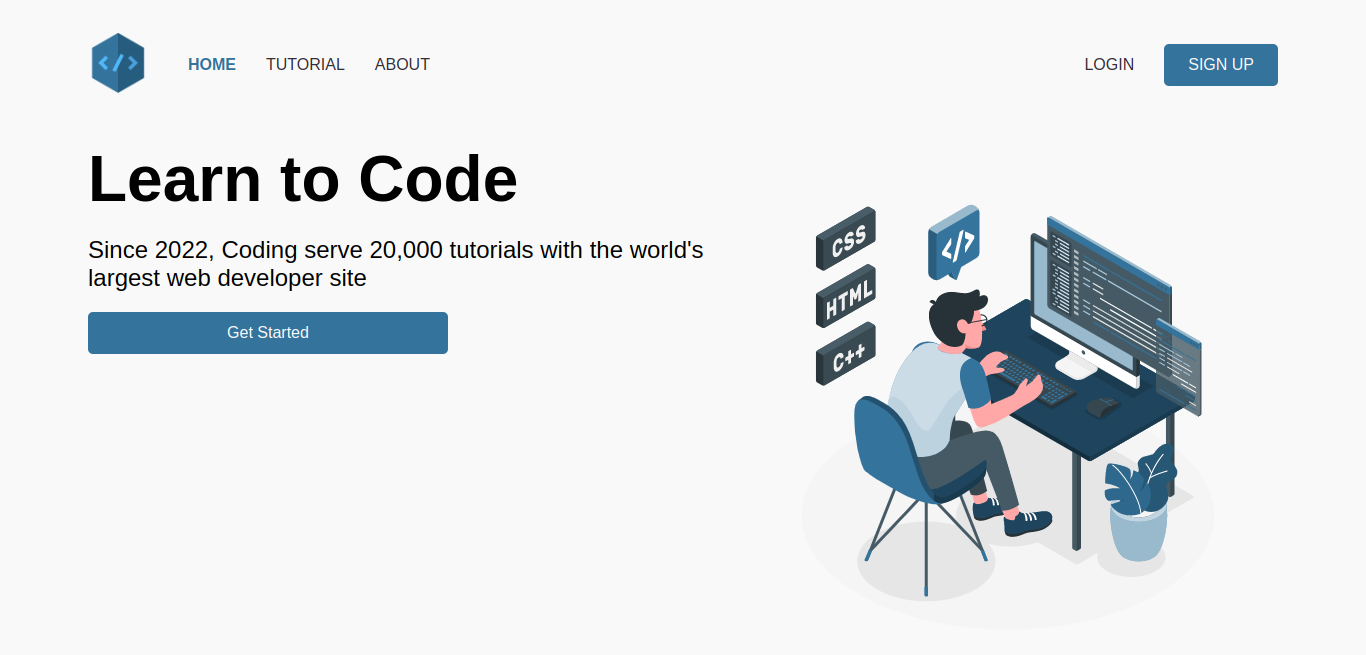
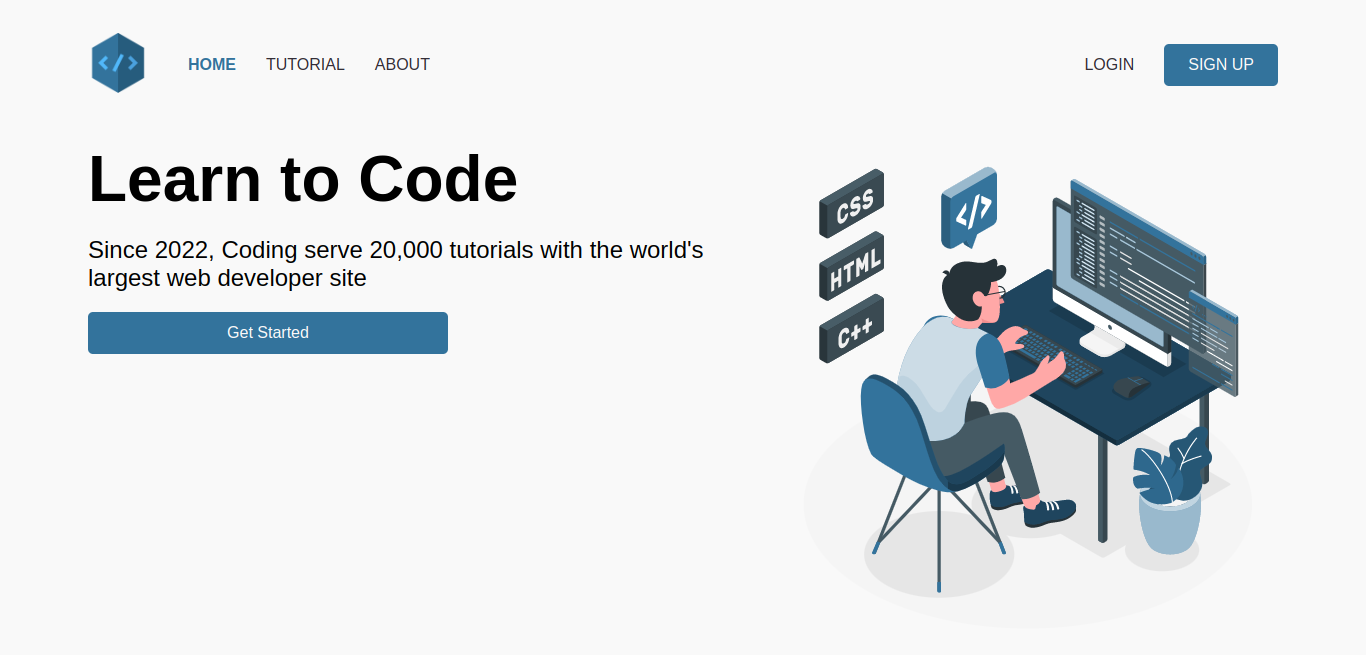
update content image

Changed region(s): [[0.5842, 0.2443, 0.9224, 0.916]]

diff --git a/public/css/landing/contents/home.style.css b/public/css/landing/contents/home.style.css
@@ -3,7 +3,7 @@
 }
 
 .content__text {
-    width: calc(100% - 500px);
+    width: calc(100% - 540px);
 }
 
 .content__title {
@@ -22,9 +22,9 @@
 
 .content__image {
     position: absolute;
-    top: 40px;
-    right: 40px;
-    width: 460px;
+    top: 0;
+    right: 0;
+    width: 500px;
 }
 
 .content__button {
